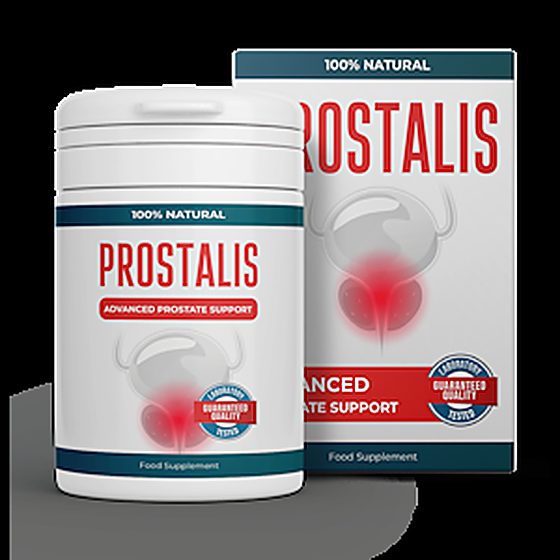
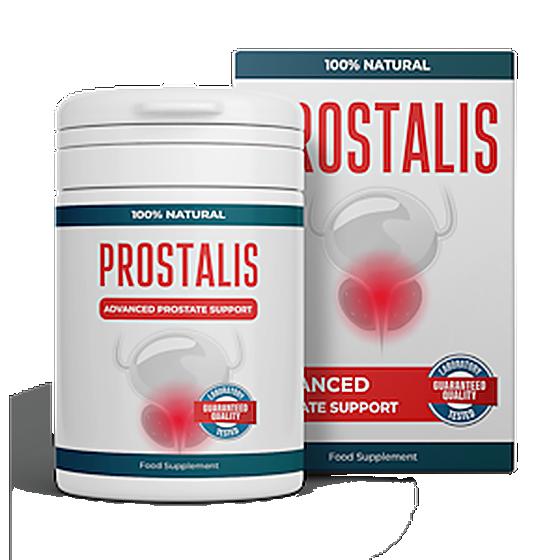
Фото: белый фон вместо чёрного — 763 кадра заливкой, 223 перерисовкой с автопроверкой текста

diff --git a/kma/diabexol-pro-11730/index.html b/kma/diabexol-pro-11730/index.html
@@ -260,7 +260,7 @@ body.free .disc,body:not(.free) .nodisc{display:none}
       <div>
         <div class="product-card">
           <span class="disc-ribbon disc">-50%</span>
-          <img src="../../img/kmahd-11730.png" alt="Diabexol Pro">
+          <img src="../../img/redraw-kmahd-11730.png" alt="Diabexol Pro">
           <div><span class="ribbon">Αυθεντικό</span><div class="shotcap">Αυθεντική συσκευασία με σφραγίδα και αριθμό παρτίδας</div></div>
         </div>
       </div>

diff --git a/lb/hondroine-13619/index.html b/lb/hondroine-13619/index.html
@@ -260,7 +260,7 @@ body.free .disc,body:not(.free) .nodisc{display:none}
       <div>
         <div class="product-card">
           <span class="disc-ribbon disc">-50%</span>
-          <img src="../../img/lbhd-13619.png" alt="Hondroine">
+          <img src="../../img/redraw-lbhd-13619.png" alt="Hondroine">
           <div><span class="ribbon">Αυθεντικό</span><div class="shotcap">Αυθεντική συσκευασία με σφραγίδα και αριθμό παρτίδας</div></div>
         </div>
       </div>

diff --git a/lb/hondroine/index.html b/lb/hondroine/index.html
@@ -260,7 +260,7 @@ body.free .disc,body:not(.free) .nodisc{display:none}
       <div>
         <div class="product-card">
           <span class="disc-ribbon disc">-50%</span>
-          <img src="../../img/lbhd-13644.png" alt="Hondroine">
+          <img src="../../img/redraw-lbhd-13644.png" alt="Hondroine">
           <div><span class="ribbon">Αυθεντικό</span><div class="shotcap">Αυθεντική συσκευασία με σφραγίδα και αριθμό παρτίδας</div></div>
         </div>
       </div>
